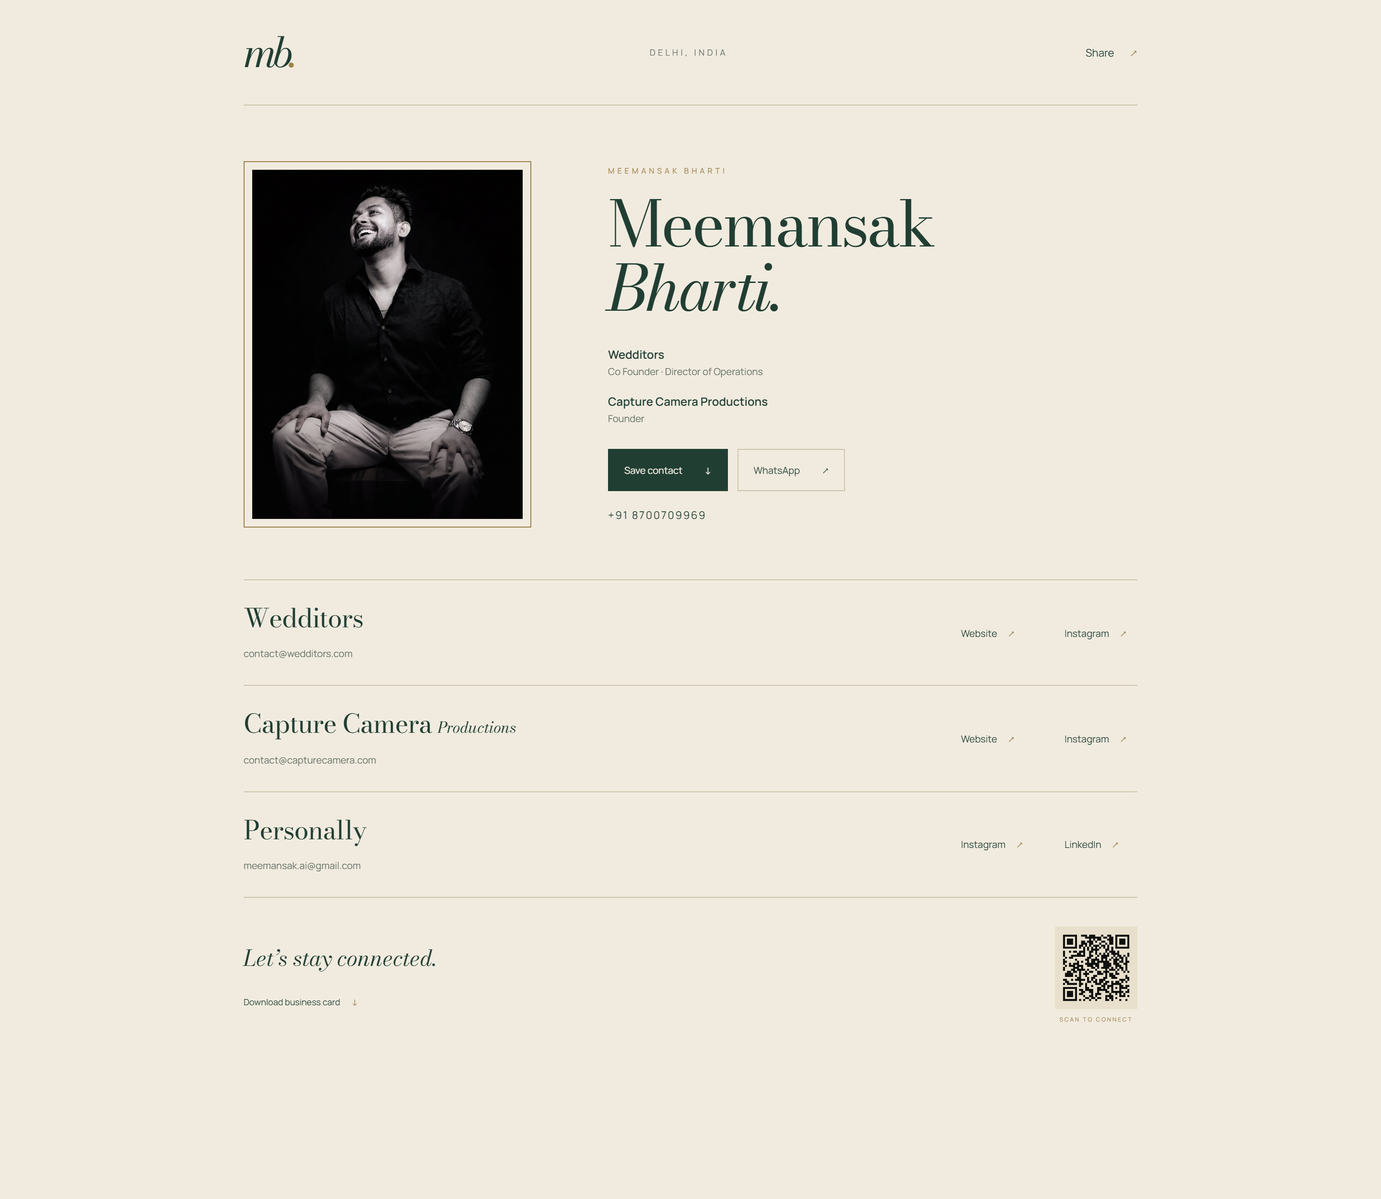
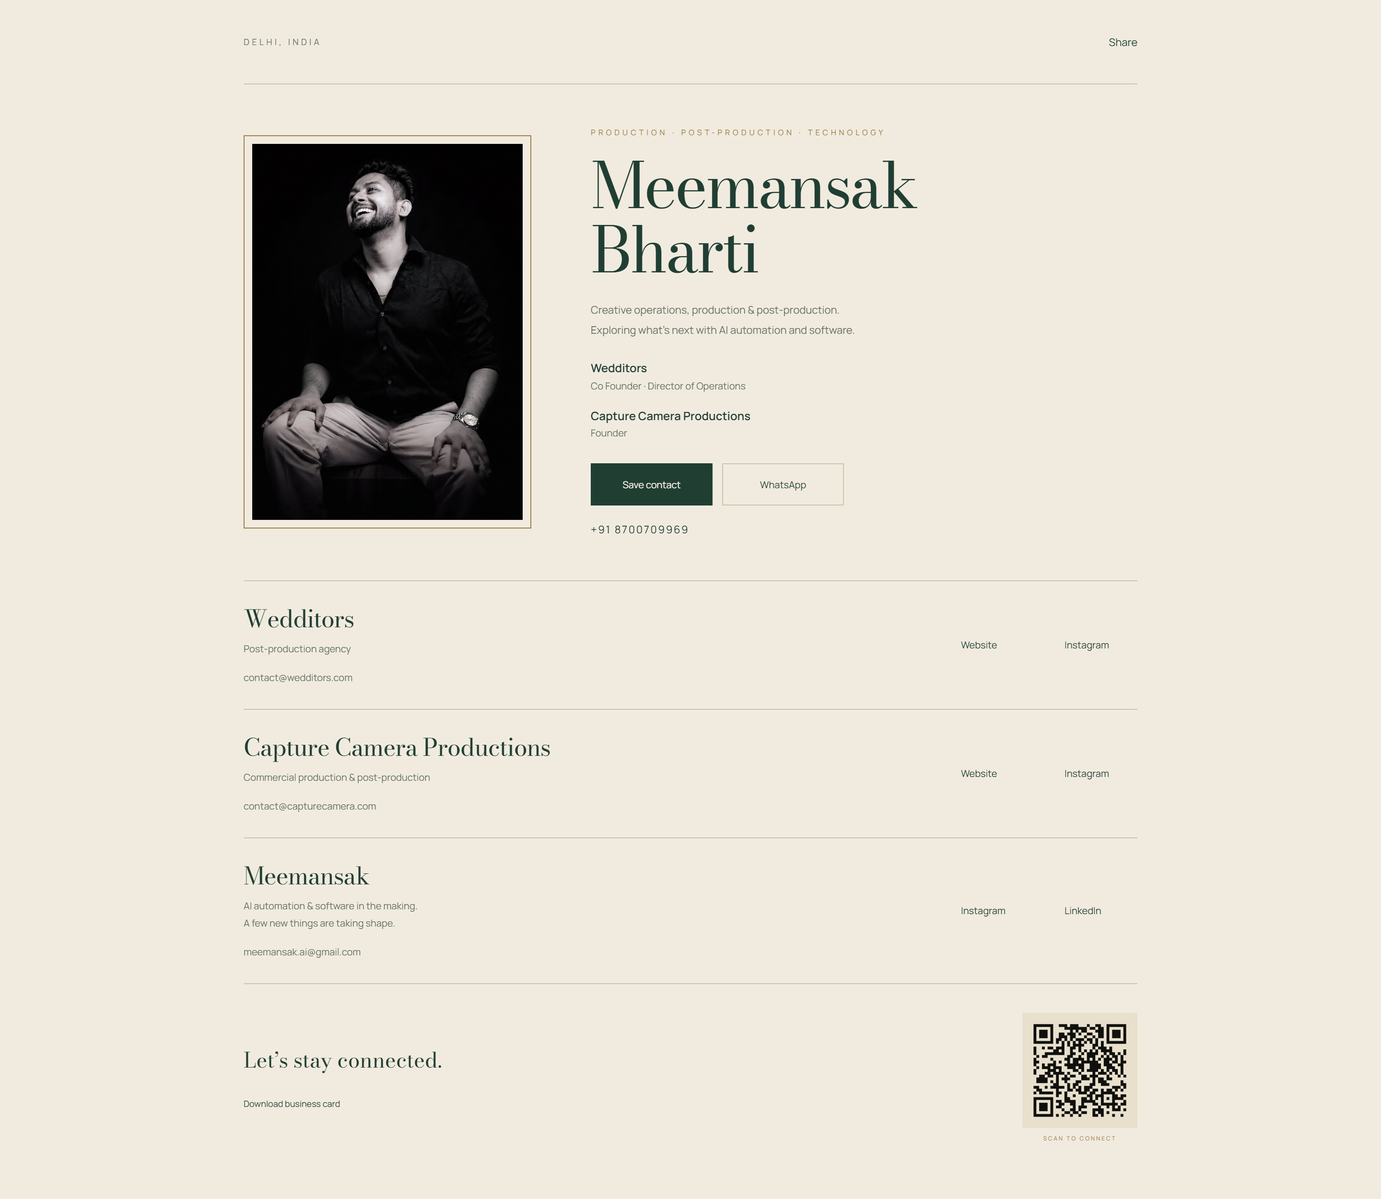
Update Site source

diff --git a/dist/style.css b/dist/style.css
@@ -1,1 +1,19 @@
 :root{color-scheme:light;--paper:#f1ebdf;--green:#213e33;--gold:#9e814a;--muted:#657066;--line:#cfc3ac}*{box-sizing:border-box}body{margin:0;background:var(--paper);color:var(--green);font-family:Manrope,Arial,sans-serif;-webkit-font-smoothing:antialiased}a{color:inherit;text-decoration:none}button{font:inherit;color:inherit;cursor:pointer}a,button{touch-action:manipulation}a:focus-visible,button:focus-visible{outline:2px solid var(--gold);outline-offset:5px}main{max-width:1060px;margin:0 auto;padding:0 64px}header{height:110px;display:flex;align-items:center;justify-content:space-between;border-bottom:1px solid var(--line)}.monogram{font-family:'Bodoni Moda',Georgia,serif;font-style:italic;font-size:43px;letter-spacing:-5px;line-height:1}.monogram span{color:var(--gold)}.location{font-size:9px;letter-spacing:2.6px;color:var(--muted)}.share{font-size:11px;background:none;border:0;padding:12px 0}.share span{color:var(--gold);margin-left:14px}.hero{display:grid;grid-template-columns:300px 1fr;gap:80px;padding:58px 0 54px;align-items:center}.portrait{width:300px;height:382px;position:relative;padding:8px;border:1px solid var(--gold)}.portrait img{display:block;width:100%;height:100%;object-fit:cover;object-position:50% 22%}.eyebrow{font-size:8px;letter-spacing:3px;color:var(--gold);margin:0 0 17px}h1{font-family:'Bodoni Moda',Georgia,serif;font-size:66px;font-weight:400;line-height:1.02;letter-spacing:-2.3px;margin:0 0 25px}h1 em{font-weight:400}.roles p{margin:0 0 13px}.roles strong{font-size:12px;display:block;font-weight:600;line-height:1.6}.roles p span{font-size:10px;color:var(--muted);display:block;line-height:1.7}.actions{display:flex;gap:10px;margin-top:23px}.button{font-size:10px;display:flex;align-items:center;justify-content:space-between;padding:13px 16px;gap:23px;min-height:44px}.primary{background:var(--green);color:#f8f2e7;border:1px solid var(--green)}.secondary{border:1px solid var(--line)}.button:hover{background:#dcd3bf;color:var(--green)}.phone{font-size:11px;letter-spacing:1.3px;display:inline-block;margin-top:17px}.connections{border-top:1px solid var(--line)}article{display:flex;align-items:center;justify-content:space-between;padding:24px 0;border-bottom:1px solid var(--line);gap:25px}h2{font-family:'Bodoni Moda',Georgia,serif;font-size:27px;font-weight:400;letter-spacing:-.6px;line-height:1.2;margin:0 0 7px}h2 small{font-size:16px;font-style:italic;letter-spacing:0}.brand>a{font-size:10px;color:var(--muted)}nav{display:flex;gap:32px;font-size:10px;align-items:center}nav a{padding:10px 0;min-width:76px}nav a span{color:var(--gold);margin-left:9px}nav a:hover,.brand>a:hover,footer a:hover{color:var(--gold)}footer{display:flex;align-items:center;justify-content:space-between;padding:30px 0 35px;gap:25px}.footer-title{display:block;font-family:'Bodoni Moda',Georgia,serif;font-size:23px;font-style:italic;margin-bottom:15px}footer a{font-size:9px}footer a span{color:var(--gold);margin-left:10px}.qr{text-align:center}.qr img{display:block;width:86px;height:86px;mix-blend-mode:multiply}.qr span{display:block;font-size:6px;letter-spacing:1.5px;color:var(--gold);margin-top:7px}#status{font-size:10px;overflow-wrap:anywhere;margin:10px 0 0;color:var(--muted);max-width:400px}#status:empty{display:none}@media(max-width:850px){main{padding:0 40px}.hero{grid-template-columns:240px 1fr;gap:45px}.portrait{width:240px;height:340px}h1{font-size:55px}.actions{flex-wrap:wrap}.button{gap:18px}h2 small{display:block;margin-top:3px}}@media(max-width:600px){main{padding:0 26px;max-width:460px}header{height:82px}.location{font-size:7px;letter-spacing:1.7px}.monogram{font-size:36px}.share{font-size:10px}.hero{display:flex;flex-direction:column;gap:29px;padding:32px 0 30px;align-items:stretch}.portrait{width:100%;height:330px;padding:7px}.portrait img{object-position:50% 19%}.intro{padding:0 1px}.eyebrow{font-size:7px;letter-spacing:2.8px;margin:0 0 14px}h1{font-size:clamp(43px,13.6vw,61px);line-height:1.04;letter-spacing:-2px;margin:0 0 23px}h1 br{display:none}h1 em{display:block}.roles strong{font-size:12px}.roles p span{font-size:10px}.actions{margin-top:22px;flex-wrap:nowrap}.button{flex:1;font-size:10px;padding:14px 15px;gap:10px;white-space:nowrap}.phone{margin-top:19px}article{padding:22px 0;align-items:flex-start;flex-direction:column;gap:12px}h2{font-size:29px}h2 small{display:inline;font-size:15px}.brand>a{font-size:10px}nav{gap:27px;font-size:10px}nav a{padding:4px 0;min-width:0;min-height:30px}footer{padding:28px 0 32px}.footer-title{font-size:22px}.qr img{width:76px;height:76px}.qr span{font-size:5px;letter-spacing:1px}}
+
+/* Refined typography and quiet, interactive light. */
+header{justify-content:space-between;height:88px}
+h1,h2,.footer-title{font-style:normal;font-weight:400}
+h1{position:relative;isolation:isolate;cursor:default;transition:text-shadow .5s ease;color:var(--green);margin-bottom:18px}
+h1>span{display:block}
+h1::before{content:"";position:absolute;inset:-35px;z-index:-1;background:radial-gradient(ellipse at var(--glow-x,50%) var(--glow-y,50%),#c7b57555,transparent 66%);filter:blur(18px);opacity:0;transition:opacity .5s ease;pointer-events:none}
+h1:hover{text-shadow:0 0 20px #aa945c55,0 0 48px #b7a56b55}
+h1:hover::before{opacity:1}
+.bio{font-size:11px;line-height:1.9;color:var(--muted);margin:0 0 20px}
+.hero{padding:44px 0;gap:62px}.portrait{height:410px}
+.description{font-size:10px;line-height:1.8;color:var(--muted);margin:0 0 8px}
+h2{font-size:25px}.brand>a{font-size:10px}.qr img{width:120px;height:120px}
+.footer-title{font-size:22px}.button{justify-content:center;min-width:127px}
+@media(max-width:850px){.hero{gap:36px}h1{font-size:51px}h2{font-size:22px}}
+@media(max-width:600px){header{height:72px}.hero{gap:27px;padding:28px 0}.portrait{height:300px}h1{font-size:clamp(40px,12.8vw,58px)}h1 br{display:none}.eyebrow{font-size:6px;letter-spacing:1.55px}.bio{font-size:10px}h2{font-size:25px}.qr img{width:105px;height:105px}.footer-title{font-size:19px}.button{min-width:0}footer{gap:14px}}
+@media(prefers-reduced-motion:reduce){h1,h1::before{transition:none}h1::before{filter:none}}
+h1::before{inset:-20px -12px}.hero>*{min-width:0}@media(max-width:600px){h1::before{inset:-18px 0}}

diff --git a/dist/index.html b/dist/index.html
@@ -1,8 +1,8 @@
 <!doctype html><html lang="en"><head><meta charset="UTF-8"><meta name="viewport" content="width=device-width,initial-scale=1"><title>Meemansak Bharti — Connect</title><meta name="description" content="Meemansak Bharti. Co Founder & Director of Operations at Wedditors. Founder of Capture Camera Productions. Delhi, India."><meta name="theme-color" content="#f1ebdf"><meta property="og:title" content="Meemansak Bharti — Connect"><meta property="og:description" content="Wedditors · Capture Camera Productions · Delhi, India"><meta property="og:image" content="https://meemansak-bharti-connect.quirkyrhea64.chatgpt.site/assets/business-card.png"><link rel="stylesheet" href="assets/fonts.css"><link rel="stylesheet" href="style.css"></head><body><main>
-<header><a href="#" class="monogram" aria-label="Meemansak Bharti home">mb<span>.</span></a><span class="location">DELHI, INDIA</span><button data-share class="share">Share <span>↗</span></button></header>
-<section class="hero" aria-label="Meemansak Bharti"><div class="portrait"><img src="assets/meemansak.jpg" alt="Portrait of Meemansak Bharti"></div><div class="intro"><p class="eyebrow">MEEMANSAK BHARTI</p><h1>Meemansak<br><em>Bharti.</em></h1><div class="roles"><p><strong>Wedditors</strong><span>Co Founder · Director of Operations</span></p><p><strong>Capture Camera Productions</strong><span>Founder</span></p></div><div class="actions"><a class="button primary" href="meemansak-bharti.vcf" download>Save contact <span>↓</span></a><a class="button secondary" href="https://wa.me/918700709969" target="_blank" rel="noopener">WhatsApp <span>↗</span></a></div><a class="phone" href="tel:+918700709969">+91 8700709969</a></div></section>
+<header><span class="location">DELHI, INDIA</span><button data-share class="share">Share</button></header>
+<section class="hero" aria-label="Meemansak Bharti"><div class="portrait"><img src="assets/meemansak.jpg" alt="Portrait of Meemansak Bharti"></div><div class="intro"><p class="eyebrow">PRODUCTION · POST-PRODUCTION · TECHNOLOGY</p><h1>Meemansak<br><span>Bharti</span></h1><p class="bio">Creative operations, production &amp; post-production.<br>Exploring what’s next with AI automation and software.</p><div class="roles"><p><strong>Wedditors</strong><span>Co Founder · Director of Operations</span></p><p><strong>Capture Camera Productions</strong><span>Founder</span></p></div><div class="actions"><a class="button primary" href="meemansak-bharti.vcf" download>Save contact</a><a class="button secondary" href="https://wa.me/918700709969" target="_blank" rel="noopener">WhatsApp</a></div><a class="phone" href="tel:+918700709969">+91 8700709969</a></div></section>
 <section class="connections" aria-label="Contact and social links">
-<article><div class="brand"><h2>Wedditors</h2><a href="mailto:contact@wedditors.com">contact@wedditors.com</a></div><nav aria-label="Wedditors"><a href="https://wedditors.com" target="_blank" rel="noopener">Website <span>↗</span></a><a href="https://www.instagram.com/wedditors" target="_blank" rel="noopener">Instagram <span>↗</span></a></nav></article>
-<article><div class="brand"><h2>Capture Camera <small>Productions</small></h2><a href="mailto:contact@capturecamera.com">contact@capturecamera.com</a></div><nav aria-label="Capture Camera"><a href="https://capturecamera.com" target="_blank" rel="noopener">Website <span>↗</span></a><a href="https://www.instagram.com/thecapturecamera" target="_blank" rel="noopener">Instagram <span>↗</span></a></nav></article>
-<article><div class="brand"><h2>Personally</h2><a href="mailto:meemansak.ai@gmail.com">meemansak.ai@gmail.com</a></div><nav aria-label="Meemansak personal"><a href="https://www.instagram.com/meemansaktech" target="_blank" rel="noopener">Instagram <span>↗</span></a><a href="https://www.linkedin.com/in/meemansakbharti/" target="_blank" rel="noopener">LinkedIn <span>↗</span></a></nav></article>
-</section><footer><div><span class="footer-title">Let’s stay connected.</span><a href="assets/business-card.png" download="Meemansak-Bharti-Business-Card.png">Download business card <span>↓</span></a><p id="status" role="status" aria-live="polite"></p></div><div class="qr"><img src="assets/connect-qr.png" alt="Scan this QR code to open Meemansak’s contact page"><span>SCAN TO CONNECT</span></div></footer></main><script src="app.js"></script></body></html>
+<article><div class="brand"><h2>Wedditors</h2><p class="description">Post-production agency</p><a href="mailto:contact@wedditors.com">contact@wedditors.com</a></div><nav aria-label="Wedditors"><a href="https://wedditors.com" target="_blank" rel="noopener">Website</a><a href="https://www.instagram.com/wedditors" target="_blank" rel="noopener">Instagram</a></nav></article>
+<article><div class="brand"><h2>Capture Camera Productions</h2><p class="description">Commercial production &amp; post-production</p><a href="mailto:contact@capturecamera.com">contact@capturecamera.com</a></div><nav aria-label="Capture Camera"><a href="https://capturecamera.com" target="_blank" rel="noopener">Website</a><a href="https://www.instagram.com/thecapturecamera" target="_blank" rel="noopener">Instagram</a></nav></article>
+<article><div class="brand"><h2>Meemansak</h2><p class="description">AI automation &amp; software in the making.<br>A few new things are taking shape.</p><a href="mailto:meemansak.ai@gmail.com">meemansak.ai@gmail.com</a></div><nav aria-label="Meemansak personal"><a href="https://www.instagram.com/meemansaktech" target="_blank" rel="noopener">Instagram</a><a href="https://www.linkedin.com/in/meemansakbharti/" target="_blank" rel="noopener">LinkedIn</a></nav></article>
+</section><footer><div><span class="footer-title">Let’s stay connected.</span><a href="assets/business-card.png" download="Meemansak-Bharti-Business-Card.png">Download business card</a><p id="status" role="status" aria-live="polite"></p></div><div class="qr"><img src="assets/connect-qr.png" alt="Scan this QR code to open Meemansak’s contact page"><span>SCAN TO CONNECT</span></div></footer></main><script src="app.js"></script></body></html>

diff --git a/dist/card.html b/dist/card.html
@@ -1,3 +1,3 @@
 <!doctype html><html lang="en"><head><meta charset="UTF-8"><meta name="viewport" content="width=device-width,initial-scale=1"><title>Meemansak Bharti — Business Card</title><link rel="stylesheet" href="assets/fonts.css"><style>
-*{box-sizing:border-box}body{margin:0;background:#f1ebdf;color:#213e33;font-family:Manrope,Arial,sans-serif}.card{width:1200px;height:700px;padding:40px;position:relative;display:grid;grid-template-columns:340px 1fr;gap:57px}.card:after{content:'';position:absolute;inset:19px;border:1px solid #b39a67;pointer-events:none}.photo{padding:8px;border:1px solid #b39a67;align-self:center}.photo img{display:block;width:322px;height:506px;object-fit:cover;object-position:50% 22%}.content{padding:8px 16px 0 0}.top{display:flex;justify-content:space-between;align-items:center}.mb{font-family:'Bodoni Moda',Georgia,serif;font-size:35px;font-style:italic;letter-spacing:-4px}.mb span{color:#9e814a}.location{font-size:8px;letter-spacing:3px;color:#657066}h1{font-family:'Bodoni Moda',Georgia,serif;font-size:64px;line-height:1.04;font-weight:400;letter-spacing:-1.8px;margin:23px 0 24px}h1 em{display:block;font-weight:400}.roles{display:flex;gap:26px;border-top:1px solid #cfc3ac;padding-top:19px}.roles>div{flex:1}.roles strong{display:block;font-size:13px;font-weight:600;margin-bottom:7px}.roles small{font-size:9px;color:#657066;line-height:1.9}.contact{display:flex;align-items:flex-end;justify-content:space-between;margin-top:24px}.details{font-size:10px;color:#657066;line-height:2}.phone{font-size:19px;letter-spacing:.8px;color:#213e33;margin-bottom:7px}.qr{text-align:center}.qr img{display:block;width:107px;height:107px;mix-blend-mode:multiply}.qr span{display:block;font-size:6px;letter-spacing:1.6px;color:#9e814a;margin-top:8px}.foot{display:flex;justify-content:space-between;border-top:1px solid #cfc3ac;margin-top:23px;padding-top:16px;font-size:8px;color:#756039;letter-spacing:1.5px}a{color:inherit;text-decoration:none}
-</style></head><body><a class="card" href="https://meemansak-bharti-connect.quirkyrhea64.chatgpt.site"><div class="photo"><img src="assets/meemansak.jpg" alt="Meemansak Bharti"></div><div class="content"><div class="top"><span class="mb">mb<span>.</span></span><span class="location">DELHI, INDIA</span></div><h1>Meemansak<em>Bharti.</em></h1><div class="roles"><div><strong>Wedditors</strong><small>Co Founder<br>Director of Operations</small></div><div><strong>Capture Camera Productions</strong><small>Founder</small></div></div><div class="contact"><div class="details"><div class="phone">+91 8700709969</div>contact@wedditors.com<br>contact@capturecamera.com<br>meemansak.ai@gmail.com</div><div class="qr"><img src="assets/connect-qr.png" alt="Scan to open all contact links"><span>SCAN TO CONNECT</span></div></div><div class="foot"><span>WEDDITORS.COM</span><span>CAPTURECAMERA.COM</span></div></div></a></body></html>
+*{box-sizing:border-box}body{margin:0;background:#f1ebdf;color:#213e33;font-family:Manrope,Arial,sans-serif}a{color:inherit;text-decoration:none}.card{width:1200px;height:700px;padding:51px;display:grid;grid-template-columns:300px 1fr;gap:49px;position:relative}.card:after{content:'';position:absolute;inset:20px;border:1px solid #b39a67;pointer-events:none}.photo{padding:7px;border:1px solid #b39a67;align-self:stretch}.photo img{display:block;width:284px;height:582px;object-fit:cover;object-position:50% 22%}.content{padding:6px 2px}.location{font-size:8px;color:#756039;letter-spacing:2.3px;margin:0 0 20px}h1{font-family:'Bodoni Moda',Georgia,serif;font-size:57px;line-height:1.07;font-weight:400;letter-spacing:-1.6px;margin:0 0 17px}h1 span{display:block}.intro{font-size:10px;line-height:1.9;color:#657066;margin:0 0 25px}.grid{border-top:1px solid #cfc3ac;padding-top:24px;display:grid;grid-template-columns:1.12fr 1fr;gap:32px}.label{font-size:7px;letter-spacing:2px;color:#756039;margin:0 0 17px}.company{margin-bottom:22px}.company h2{font-family:'Bodoni Moda',Georgia,serif;font-size:22px;line-height:1.3;font-weight:400;margin:0 0 6px}.company p{font-size:8px;color:#657066;line-height:1.8;margin:0}.company .work{color:#213e33;margin-top:7px}.company .url{font-size:8px;letter-spacing:.3px;margin-top:8px}.contact{border-left:1px solid #cfc3ac;padding-left:26px}.emails{font-size:9px;color:#657066;line-height:2.1}.phone{font-size:11px;letter-spacing:.7px;display:block;border-top:1px solid #cfc3ac;margin-top:14px;padding-top:13px}.qr{margin-top:19px;display:flex;flex-direction:column;align-items:flex-start}.qr img{display:block;width:152px;height:152px;mix-blend-mode:multiply}.qr span{display:block;width:152px;text-align:center;font-size:7px;letter-spacing:1.8px;color:#756039;margin-top:7px}
+</style></head><body><a class="card" href="https://meemansak-bharti-connect.quirkyrhea64.chatgpt.site"><div class="photo"><img src="assets/meemansak.jpg" alt="Meemansak Bharti"></div><div class="content"><p class="location">DELHI, INDIA</p><h1>Meemansak <span>Bharti</span></h1><p class="intro">Creative operations, production &amp; post-production.<br>AI automation &amp; software — new things in the making.</p><div class="grid"><div><p class="label">COMPANIES</p><div class="company"><h2>Wedditors</h2><p>Co Founder · Director of Operations</p><p class="work">Post-production agency</p><p class="url">wedditors.com</p></div><div class="company"><h2>Capture Camera<br>Productions</h2><p>Founder</p><p class="work">Commercial production<br>&amp; post-production</p><p class="url">capturecamera.com</p></div></div><div class="contact"><p class="label">CONTACT</p><div class="emails">contact@wedditors.com<br>contact@capturecamera.com<br>meemansak.ai@gmail.com</div><span class="phone">+91 8700709969</span><div class="qr"><img src="assets/connect-qr.png" alt="QR code opening all contact links"><span>SCAN TO CONNECT</span></div></div></div></div></a></body></html>

diff --git a/dist/app.js b/dist/app.js
@@ -3,3 +3,6 @@ document.querySelectorAll('[data-share]').forEach(button=>button.addEventListene
  const status=document.getElementById('status');
  try{if(navigator.share){await navigator.share({title:'Meemansak Bharti',text:'Wedditors · Capture Camera Productions — connect with Meemansak Bharti',url:canonical});status.textContent='';}else{await navigator.clipboard.writeText(canonical);status.textContent='Link copied. Ready to share.';}}catch(error){if(error.name!=='AbortError'){status.textContent='Copy this link to share: '+canonical;}}
 }));
+
+const nameHeading=document.querySelector('h1');
+nameHeading.addEventListener('pointermove',event=>{const bounds=nameHeading.getBoundingClientRect();nameHeading.style.setProperty('--glow-x',((event.clientX-bounds.left)/bounds.width*100)+'%');nameHeading.style.setProperty('--glow-y',((event.clientY-bounds.top)/bounds.height*100)+'%');});

diff --git a/refine.py b/refine.py
@@ -1,0 +1,34 @@
+from pathlib import Path
+p=Path(__file__).parent
+f=p/'dist/index.html';s=f.read_text(encoding='utf-8')
+s=s.replace('<a href="#" class="monogram" aria-label="Meemansak Bharti home">mb<span>.</span></a>','')
+for arrow in [' <span>↗</span>',' <span>↓</span>']:s=s.replace(arrow,'')
+s=s.replace('<p class="eyebrow">MEEMANSAK BHARTI</p>','<p class="eyebrow">PRODUCTION · POST-PRODUCTION · TECHNOLOGY</p>')
+s=s.replace('<em>Bharti.</em>','<span>Bharti</span>')
+s=s.replace('</h1><div class="roles">','</h1><p class="bio">Creative operations, production &amp; post-production.<br>Exploring what’s next with AI automation and software.</p><div class="roles">')
+s=s.replace('<h2>Wedditors</h2>','<h2>Wedditors</h2><p class="description">Post-production agency</p>')
+s=s.replace('<h2>Capture Camera <small>Productions</small></h2>','<h2>Capture Camera Productions</h2><p class="description">Commercial production &amp; post-production</p>')
+s=s.replace('<h2>Personally</h2>','<h2>Meemansak</h2><p class="description">AI automation &amp; software in the making.<br>A few new things are taking shape.</p>')
+f.write_text(s,encoding='utf-8')
+f=p/'dist/style.css';s=f.read_text(encoding='utf-8');s+='''
+/* Refined typography and quiet, interactive light. */
+header{justify-content:space-between;height:88px}
+h1,h2,.footer-title{font-style:normal;font-weight:400}
+h1{position:relative;isolation:isolate;cursor:default;transition:text-shadow .5s ease;color:var(--green);margin-bottom:18px}
+h1>span{display:block}
+h1::before{content:"";position:absolute;inset:-35px;z-index:-1;background:radial-gradient(ellipse at var(--glow-x,50%) var(--glow-y,50%),#c7b57555,transparent 66%);filter:blur(18px);opacity:0;transition:opacity .5s ease;pointer-events:none}
+h1:hover{text-shadow:0 0 20px #aa945c55,0 0 48px #b7a56b55}
+h1:hover::before{opacity:1}
+.bio{font-size:11px;line-height:1.9;color:var(--muted);margin:0 0 20px}
+.hero{padding:44px 0;gap:62px}.portrait{height:410px}
+.description{font-size:10px;line-height:1.8;color:var(--muted);margin:0 0 8px}
+h2{font-size:25px}.brand>a{font-size:10px}.qr img{width:120px;height:120px}
+.footer-title{font-size:22px}.button{justify-content:center;min-width:127px}
+@media(max-width:850px){.hero{gap:36px}h1{font-size:51px}h2{font-size:22px}}
+@media(max-width:600px){header{height:72px}.hero{gap:27px;padding:28px 0}.portrait{height:300px}h1{font-size:clamp(40px,12.8vw,58px)}h1 br{display:none}.eyebrow{font-size:6px;letter-spacing:1.55px}.bio{font-size:10px}h2{font-size:25px}.qr img{width:105px;height:105px}.footer-title{font-size:19px}.button{min-width:0}footer{gap:14px}}
+@media(prefers-reduced-motion:reduce){h1,h1::before{transition:none}h1::before{filter:none}}
+''';f.write_text(s,encoding='utf-8')
+f=p/'dist/app.js';s=f.read_text(encoding='utf-8');s+='''
+const nameHeading=document.querySelector('h1');
+nameHeading.addEventListener('pointermove',event=>{const bounds=nameHeading.getBoundingClientRect();nameHeading.style.setProperty('--glow-x',((event.clientX-bounds.left)/bounds.width*100)+'%');nameHeading.style.setProperty('--glow-y',((event.clientY-bounds.top)/bounds.height*100)+'%');});
+''';f.write_text(s,encoding='utf-8')

diff --git a/README.md b/README.md
@@ -1,0 +1,23 @@
+# Meemansak Bharti — Digital business card
+
+Independent static website. No build step, framework, account or API key required.
+
+## Files
+
+- `dist/index.html`: contact page
+- `dist/style.css`: visual design and responsive layout
+- `dist/card.html`: business card source, 1200 × 700
+- `dist/assets/business-card.png`: exported shareable image, 2400 × 1400
+- `dist/meemansak-bharti.vcf`: downloadable contact
+- `dist/assets/connect-qr.png`: QR pointing to the live contact page
+
+## GitHub Pages
+
+Create your own GitHub repository and push this folder's contents to `main`. In Settings → Pages, choose **GitHub Actions** as the deployment source. The included `.github/workflows/pages.yml` publishes only `dist/`. All asset links are relative and support a repository subpath. The current Git remote belongs to Sites; add a separate GitHub remote instead of overwriting it if you want to retain Sites publishing.
+
+The QR and social preview currently point to:
+https://meemansak-bharti-connect.quirkyrhea64.chatgpt.site
+
+When moving to a permanent GitHub Pages URL or custom domain, update the URL in `dist/app.js`, `dist/index.html`, `dist/card.html` and `make-qr.py`, regenerate the QR, and re-export the PNG. Existing shared images continue to point to the old URL until you redirect that URL or share a new card.
+
+`verify.cjs` generates screenshots using this computer's local Playwright and Chrome installation; it is an optional local authoring utility, not a website dependency. Fonts are self-hosted; their licenses are in `dist/assets/`.
